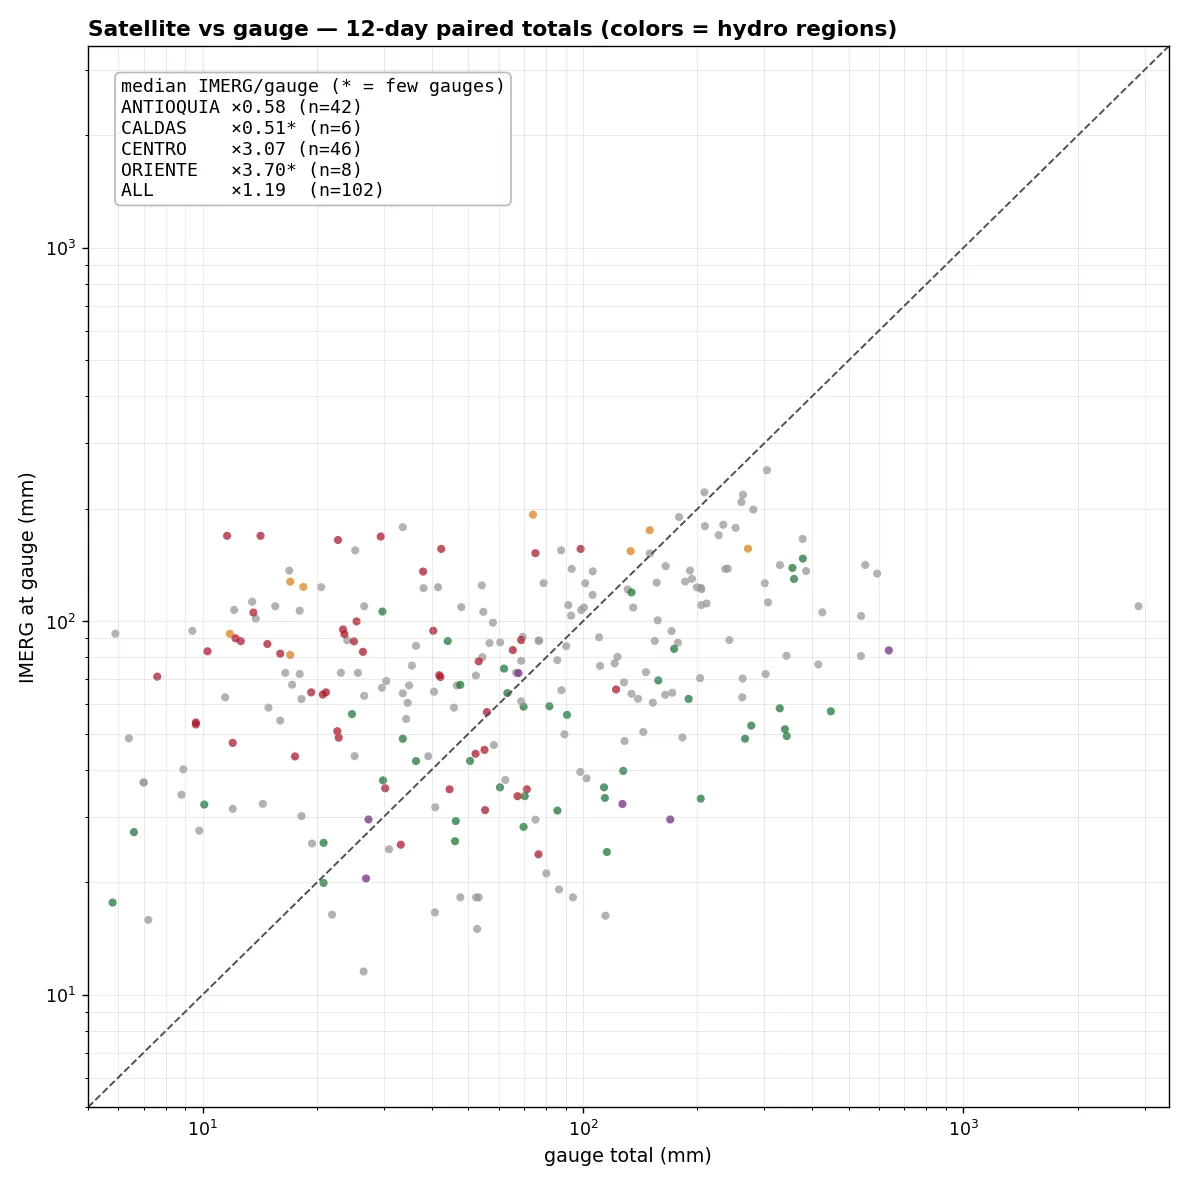
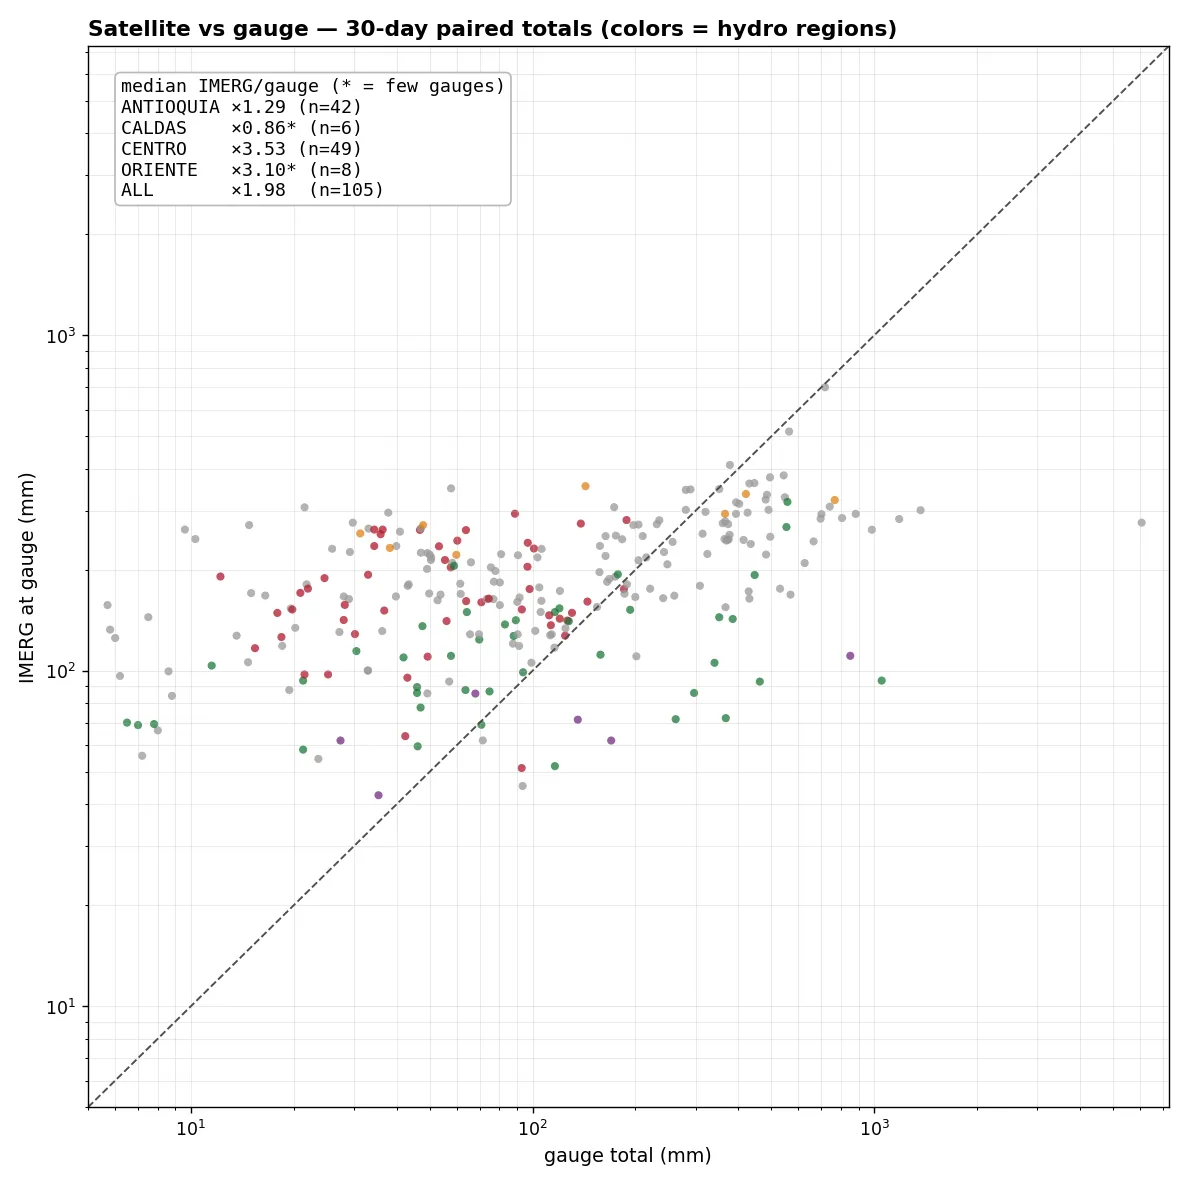
Colombia hydro: gauge-corrected IMERG (549-station cell-wise field) + raw-vs-corrected maps at 1/7/14/30/90 paired days
Correction field: per-station 2-year satellite-vs-gauge ratio (>=120
paired days, >=50mm), log-IDW to the 0.1-deg grid with unity-pulling
background, cached weekly, applied BEFORE any averaging. Five dual-panel
comparisons replace the single-source maps; the dry Magdalena corridor
dries out and Pacific-coast extremes tame toward their gauges. History
accumulates automatically (daily fetches cached forever); scatter bias
factors are window-dependent (Aug-only x0.58 vs May-Aug x1.29 for
Antioquia) — seasonal stratification queued as the archive grows.

diff --git a/colombia_hydro/index.html b/colombia_hydro/index.html
@@ -93,14 +93,23 @@ the wet Antioquia slopes</b> (the classic orographic underestimate) and <b>high 
 upper-Magdalena valley</b> where 0.1&deg; cells straddle wet cordillera walls — exactly the
 corrections the rain&rarr;inflow model needs. Factors marked * rest on few gauges and are
 provisional; they harden as the daily archive grows.</p>
-<div class="panel"><img src="rain_gauges_daily.webp?v=202608165"
-  alt="IMERG daily rainfall with IDEAM gauge totals overlaid, values in mm"></div>
-<div class="cols" style="margin-top:18px">
-  <div class="panel"><img src="rain_gauges_7d.webp?v=202608165"
-    alt="7-day IMERG accumulation with gauge totals"></div>
-  <div class="panel"><img src="rain_gauges_30d.webp?v=202608165"
-    alt="30-day IMERG accumulation with gauge totals"></div>
-</div>
+<p class="note" style="margin-top:6px"><b>Left: raw IMERG. Right: gauge-corrected
+IMERG</b> &mdash; a cell-wise multiplicative correction field built from <b>549 stations'
+two-year satellite-vs-gauge ratios</b> (each with 120+ paired days), interpolated across
+the grid and relaxing to &times;1 away from stations, applied before any averaging. Watch
+the dry Magdalena corridor dry out and the Pacific-coast extremes tame toward their
+gauges. Windows are paired feed days, so the multi-week gauge-feed holes can't skew
+either side.</p>
+<div class="panel"><img src="rain_cmp_1d.webp?v=202608166"
+  alt="Raw vs gauge-corrected IMERG, last paired day"></div>
+<div class="panel" style="margin-top:18px"><img src="rain_cmp_7d.webp?v=202608166"
+  alt="Raw vs gauge-corrected IMERG, 7 paired days"></div>
+<div class="panel" style="margin-top:18px"><img src="rain_cmp_14d.webp?v=202608166"
+  alt="Raw vs gauge-corrected IMERG, 14 paired days"></div>
+<div class="panel" style="margin-top:18px"><img src="rain_cmp_30d.webp?v=202608166"
+  alt="Raw vs gauge-corrected IMERG, 30 paired days"></div>
+<div class="panel" style="margin-top:18px"><img src="rain_cmp_90d.webp?v=202608166"
+  alt="Raw vs gauge-corrected IMERG, 90 paired days"></div>
 <div class="panel" style="margin-top:18px;max-width:760px"><img src="rain_gauges_scatter.webp?v=202608165"
   alt="IMERG vs gauge scatter with per-region bias factors"></div>
 

diff --git a/scripts/sst/colombia_rain_map.py b/scripts/sst/colombia_rain_map.py
@@ -83,9 +83,72 @@ def imerg_stack(days: list[datetime]):
     return fields, lons[li], lats[la]
 
 
+CORR_NPZ = HERE / "data" / "imerg_gauge_corr.npz"
+CORR_MAX_AGE_DAYS = 7
+
+
+def build_correction(days_all, fields_all, rdates, lons, lats):
+    """Cell-wise gauge-correction field for IMERG: per-station ratio of
+    summed gauge vs summed IMERG-at-station over ALL paired archive days
+    (>=120 days, >=50 mm gauge total), log-IDW interpolated to the grid
+    with a unity-pulling background so the field relaxes to 1.0 away from
+    stations. Multiplicative: corrected = IMERG * F. Cached, rebuilt
+    weekly as the archive grows."""
+    import time as _t
+    if CORR_NPZ.exists() and (_t.time() - CORR_NPZ.stat().st_mtime) < 86400 * CORR_MAX_AGE_DAYS:
+        z = np.load(CORR_NPZ)
+        return z["F"]
+    from ideam_gauges import CACHE as GCACHE
+    gsum, isum, ndays, meta = {}, {}, {}, {}
+    for i, d in enumerate(rdates):
+        f = GCACHE / f"{str(d).replace('-', '')}.json"
+        if not f.exists() or fields_all[i] is None:
+            continue
+        day = json.loads(f.read_text())
+        for code, g in day.items():
+            la, lo = g["la"], g["lo"] % 360
+            if not (LON0 <= lo <= LON1 and LAT0 <= la <= LAT1):
+                continue
+            ii = int(np.argmin(np.abs(lats - la)))
+            jj = int(np.argmin(np.abs(lons - lo)))
+            sat = float(fields_all[i][ii, jj])
+            if not np.isfinite(sat):
+                continue
+            gsum[code] = gsum.get(code, 0.0) + g["mm"]
+            isum[code] = isum.get(code, 0.0) + sat
+            ndays[code] = ndays.get(code, 0) + 1
+            meta[code] = (la, lo)
+    pts, logf = [], []
+    for code in gsum:
+        if ndays[code] >= 120 and gsum[code] >= 50 and isum[code] >= 50:
+            fac = np.clip(gsum[code] / isum[code], 1 / 3.0, 3.0)  # gauge/IMERG
+            pts.append(meta[code])
+            logf.append(np.log(fac))
+    print(f"correction field: {len(pts)} stations qualify", flush=True)
+    pts = np.array(pts) if pts else np.zeros((0, 2))
+    logf = np.array(logf)
+    LO, LA = np.meshgrid(lons, lats)
+    F = np.ones(LO.shape)
+    if len(pts):
+        L = 0.45                                       # deg, IDW length scale
+        for ii in range(LO.shape[0]):
+            # distances station->cells of this row (vectorized)
+            dy = pts[:, 0][:, None] - LA[ii, :][None, :] * 0 - LA[ii, 0]
+            dx = pts[:, 1][:, None] - LO[ii, :][None, :]
+            w = np.exp(-((dx ** 2 + dy ** 2)) / (2 * L * L))
+            w0 = 0.15                                  # unity-pulling background
+            F[ii, :] = np.exp((w * logf[:, None]).sum(0) / (w.sum(0) + w0))
+    CORR_NPZ.parent.mkdir(parents=True, exist_ok=True)
+    np.savez_compressed(CORR_NPZ, F=F)
+    print(f"correction field: {F.min():.2f}..{F.max():.2f} (x)", flush=True)
+    return F
+
+
 def main() -> int:
     end = (datetime.now(timezone.utc) - timedelta(days=1)).replace(tzinfo=None)
-    days = [end - timedelta(days=k) for k in range(30)][::-1]      # oldest first
+    # full archive span for the correction field; windows use the tail
+    nall = len(sorted(IP.DAILY_CACHE.glob("*.npy")))
+    days = [end - timedelta(days=k) for k in range(min(nall + 5, 800))][::-1]
 
     # crop FIRST (basin bbox + padding, squared) — the IMERG field subset
     # below uses these bounds, so they must be final before imerg_stack
@@ -97,26 +160,25 @@ def main() -> int:
     lon_pad = max(0.6, ((LAT1 - LAT0) - (xs.max() - xs.min())) / 2)
     LON0, LON1 = xs.min() - lon_pad, xs.max() + lon_pad
 
-    IP.ensure_daily(set(days))
+    IP.ensure_daily({d for d in days[-35:]})
     fields, lons, lats = imerg_stack(days)
     have = [i for i, f in enumerate(fields) if f is not None]
     if not have:
         print("no IMERG dailies cached")
         return 1
     latest_i = have[-1]
+    rdates = np.array([f"{d:%Y-%m-%d}" for d in days])
+
+    F = build_correction(days, fields, rdates, lons, lats)
 
     print("fetching gauges …", flush=True)
-    gauges = fetch_range(end, 30)                                   # {date: {code:{la,lo,mm}}}
+    gauges = fetch_range(end, 100)
 
-    # The gauge feed has real multi-week holes (verified server-side: zero
-    # rows Jul 25-Aug 11 2026). Accumulate over PAIRED days only — the last
-    # N days where BOTH a gauge day and an IMERG daily exist — and sum the
-    # satellite over exactly those dates, so totals stay comparable.
     feed_days = [d for d in days if gauges.get(d)]
     imerg_ok = {days[i] for i in have}
     paired = [d for d in feed_days if d in imerg_ok]
 
-    def paired_sum(window: list[datetime]):
+    def paired_sum(window):
         need = max(1, int(0.85 * len(window)))
         acc, cnt, meta = {}, {}, {}
         for d in window:
@@ -129,12 +191,6 @@ def main() -> int:
         sat = np.nansum([fields[days.index(d)] for d in window], axis=0)
         return gg, sat
 
-    day_g = gauges.get(days[latest_i], {})
-    wk_days = paired[-7:]
-    mo_days = paired[-30:]
-    wk_g, wk = paired_sum(wk_days)
-    mo_g, mo = paired_sum(mo_days)
-
     paths = {r: [MplPath(np.column_stack([(ring[:, 0] % 360), ring[:, 1]]))
                  for ring in rings] for r, rings in rp.items() if r in ORDER}
 
@@ -146,18 +202,12 @@ def main() -> int:
 
     import matplotlib.patheffects as pe
 
-    def render_map(field, gg, title, lev, fname):
-        """One large single-panel map: IMERG shading, region outlines, gauges
-        as dots on the same scale WITH their mm totals printed."""
-        asp = (LAT1 - LAT0) / (LON1 - LON0)
-        fig = plt.figure(figsize=(9.0, min(14.0, 9.0 * asp + 1.6)))
-        ax = fig.add_subplot(projection=ccrs.PlateCarree())
-        ax.set_extent([LON0 - 360, LON1 - 360, LAT0, LAT1], ccrs.PlateCarree())
+    def draw_panel(ax, field, gg, lev, label):
         norm = BoundaryNorm(lev, CMAP.N)
         pm = ax.pcolormesh(lons, lats, field, cmap=CMAP, norm=norm,
                            shading="nearest", transform=ccrs.PlateCarree())
-        ax.coastlines(resolution="50m", lw=1.1, color="#333333", zorder=4)
-        ax.add_feature(cfeature.BORDERS.with_scale("50m"), lw=0.9,
+        ax.coastlines(resolution="50m", lw=1.0, color="#333333", zorder=4)
+        ax.add_feature(cfeature.BORDERS.with_scale("50m"), lw=0.8,
                        edgecolor="#555555", zorder=4)
         for r, rings in rp.items():
             if r not in ORDER:
@@ -165,50 +215,72 @@ def main() -> int:
             col = RCOL.get(r, "#222222")
             big = max(rings, key=len)
             for ring in rings:
-                ax.plot(ring[:, 0] % 360, ring[:, 1], color=col, lw=1.7,
+                ax.plot(ring[:, 0] % 360, ring[:, 1], color=col, lw=1.5,
                         transform=ccrs.PlateCarree(), zorder=4)
             cx, cy = (big[:, 0] % 360).mean(), big[:, 1].mean()
-            ax.annotate(r, (cx - 360, cy), ha="center", fontsize=10.5,
+            ax.annotate(r, (cx - 360, cy), ha="center", fontsize=8.5,
                         fontweight="bold", color=col, zorder=7,
                         xycoords=ax.transData,
-                        path_effects=[pe.withStroke(linewidth=2.6,
+                        path_effects=[pe.withStroke(linewidth=2.2,
                                                     foreground="white")])
         n_in = 0
-        if gg:
-            for g in gg.values():
-                lo, la, mm = g["lo"] % 360, g["la"], g["mm"]
-                if not (LON0 <= lo <= LON1 and LAT0 <= la <= LAT1):
-                    continue
-                n_in += 1
-                ax.scatter([lo], [la], c=[mm], cmap=CMAP, norm=norm, s=42,
-                           edgecolors="black", linewidths=0.5, zorder=5,
-                           transform=ccrs.PlateCarree())
-                ax.annotate(f"{mm:.0f}", (lo % 360 - 360, la), xytext=(0, 5),
-                            textcoords="offset points", ha="center",
-                            fontsize=5.2, color="#111111", zorder=6,
-                            path_effects=[pe.withStroke(linewidth=1.4,
-                                                        foreground="white")],
-                            xycoords=ax.transData)
-        ax.set_title(f"{title} · {n_in} gauges (values in mm)",
-                     fontsize=12, fontweight="bold", loc="left")
-        gl = ax.gridlines(draw_labels=True, lw=0.25, color="0.7", alpha=0.6,
-                          xlocs=[-79, -78, -77, -76, -75, -74, -73, -72], ylocs=[2, 3, 4, 5, 6, 7, 8])
+        for g in (gg or {}).values():
+            lo, la, mm = g["lo"] % 360, g["la"], g["mm"]
+            if not (LON0 <= lo <= LON1 and LAT0 <= la <= LAT1):
+                continue
+            n_in += 1
+            ax.scatter([lo], [la], c=[mm], cmap=CMAP, norm=norm, s=30,
+                       edgecolors="black", linewidths=0.45, zorder=5,
+                       transform=ccrs.PlateCarree())
+            ax.annotate(f"{mm:.0f}", (lo % 360 - 360, la), xytext=(0, 4),
+                        textcoords="offset points", ha="center", fontsize=4.6,
+                        color="#111111", zorder=6, xycoords=ax.transData,
+                        path_effects=[pe.withStroke(linewidth=1.2,
+                                                    foreground="white")])
+        ax.set_title(f"{label} · {n_in} gauges", fontsize=11,
+                     fontweight="bold", loc="left")
+        ax.set_extent([LON0 - 360, LON1 - 360, LAT0, LAT1], ccrs.PlateCarree())
+        gl = ax.gridlines(draw_labels=True, lw=0.2, color="0.75", alpha=0.5,
+                          xlocs=[-79, -77, -75, -73], ylocs=[2, 4, 6, 8])
         gl.top_labels = gl.right_labels = False
-        gl.xlabel_style = {"size": 9}; gl.ylabel_style = {"size": 9}
-        cb = fig.colorbar(pm, ax=ax, orientation="horizontal", fraction=0.035,
-                          pad=0.035, aspect=42)
-        cb.set_label("mm", fontsize=9)
-        out = OUT_PNG.parent / fname
-        fig.savefig(out, dpi=125, bbox_inches="tight", pad_inches=0.15)
+        gl.xlabel_style = {"size": 7}; gl.ylabel_style = {"size": 7}
+        return pm
+
+    LEVS = {1: [0, 1, 2, 5, 10, 20, 35, 50, 75, 100, 150],
+            7: [0, 5, 10, 25, 50, 100, 150, 200, 300, 400, 600],
+            14: [0, 10, 25, 50, 100, 150, 250, 350, 500, 700, 1000],
+            30: [0, 20, 50, 100, 200, 300, 450, 600, 800, 1000, 1500],
+            90: [0, 50, 150, 300, 500, 750, 1000, 1400, 1900, 2500, 3500]}
+    for N in [1, 7, 14, 30, 90]:
+        win = paired[-N:]
+        if not win:
+            continue
+        gg, raw = paired_sum(win)
+        corr = raw * F
+        fig = plt.figure(figsize=(16.6, 10.2))
+        for k, (fld, ttl) in enumerate([(raw, "raw IMERG"),
+                                        (corr, "gauge-corrected IMERG")]):
+            ax = fig.add_subplot(1, 2, k + 1, projection=ccrs.PlateCarree())
+            pm = draw_panel(ax, fld, gg, LEVS[N],
+                            f"{ttl} — {len(win)}-day total")
+            cb = fig.colorbar(pm, ax=ax, orientation="horizontal",
+                              fraction=0.04, pad=0.04, aspect=40)
+            cb.set_label("mm", fontsize=8)
+            cb.ax.tick_params(labelsize=7)
+        fig.subplots_adjust(top=0.90, bottom=0.03, left=0.04, right=0.98, wspace=0.08)
+        fig.suptitle(f"IMERG vs gauge-corrected IMERG — last {len(win)} paired "
+                     f"feed days (through {win[-1]:%b %d}) · gauge totals overlaid "
+                     "on the same scale", fontsize=13, fontweight="bold", y=0.97)
+        out = OUT_PNG.parent / f"rain_cmp_{N}d.webp"
+        fig.savefig(out, dpi=115, bbox_inches="tight", pad_inches=0.15)
         plt.close(fig)
         print(f"wrote {out.relative_to(REPO)}")
 
-    render_map(fields[latest_i], day_g, f"IMERG daily — {days[latest_i]:%b %d}",
-               [0, 1, 2, 5, 10, 20, 35, 50, 75, 100, 150], "rain_gauges_daily.webp")
-    render_map(wk, wk_g, f"{len(wk_days)}-day accumulation (paired feed days)",
-               [0, 5, 10, 25, 50, 100, 150, 200, 300, 400, 600], "rain_gauges_7d.webp")
-    render_map(mo, mo_g, f"{len(mo_days)}-day accumulation (paired feed days)",
-               [0, 20, 50, 100, 200, 300, 450, 600, 800, 1000, 1500], "rain_gauges_30d.webp")
+    # keep the objects the scatter section expects
+    mo_days = paired[-30:]
+    mo_g, mo = paired_sum(mo_days)
+    day_g = gauges.get(days[latest_i], {})
+    wk_days = paired[-7:]
 
     # ── scatter: satellite vs gauge, paired totals ──────────────────────────
     fig, ax = plt.subplots(figsize=(9.5, 9.5))
